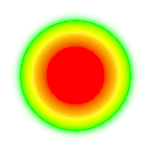
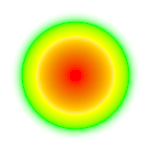
WIP: Adding colormaps

diff --git a/index.js b/index.js
@@ -27,6 +27,38 @@ exports.KERNEL_DEFAULTS = {
   phi: 0,
   radius: 100
 };
+exports.DEFAULT_COLORS = {
+  teelights: {
+    steps: 255,
+    values: ["#FEFFFE", "#00FF00", "#FFFF00", "#FF0000"],
+    weights: [2, 3, 3, 2]
+  },
+  jet: {
+    steps: 255,
+    values: ["#000080", "#0000FF", "#00FFFF", "#00FF00", "#FFFF00", "#FF0000", "800000"],
+    weights: [1, 2, 2, 2, 2, 2, 1]
+  },
+  parula: {
+    steps: 100,
+    values: ["#FEFFFE", "#00FF00", "#FFFF00", "#FF0000"],
+    weights: [2, 3, 3, 2]
+  },
+  gray: {
+    steps: 100,
+    values: ["#FEFFFE", "#00FF00", "#FFFF00", "#FF0000"],
+    weights: [2, 3, 3, 2]
+  },
+  magma: {
+    steps: 100,
+    values: ["#FEFFFE", "#00FF00", "#FFFF00", "#FF0000"],
+    weights: [2, 3, 3, 2]
+  },
+  viridis: {
+    steps: 100,
+    values: ["#FEFFFE", "#00FF00", "#FFFF00", "#FF0000"],
+    weights: [2, 3, 3, 2]
+  }
+};
 exports.kernels = {
   gaussian: gaussianKernel,
   exponential: exponentialKernel,
@@ -63,8 +95,8 @@ exports.drawGeoHeatmap = ({
     width,
     height
   );
-  width = cWidth
-  height = cHeight
+  width = cWidth;
+  height = cHeight;
   crop = crop === true ? cropPolygon : null;
   const buf = exports.drawHeatmap({
     points,
@@ -93,12 +125,7 @@ exports.drawHeatmap = ({
   method = null,
   methodArgs = null
 }) => {
-  if (colors == null)
-    colors = {
-      steps: 100,
-      values: ["#FEFFFE", "#00FF00", "#FFFF00", "#FF0000"],
-      weights: [2, 3, 3, 2]
-    };
+  if (colors == null) colors = "teelights";
   if (kernel == null) kernel = "gaussian";
   if (method == null) method = "shepards";
   if (methodArgs == null)
@@ -177,7 +204,7 @@ function convertData(geoCoords, geoPoints, pxPerDeg, width, height) {
     return Object.assign(item, {
       px: (item.lng - origin[0]) * cScale,
       py: cHeight - (item.lat - origin[1]) * cScale - offset,
-      value: item.value,
+      value: item.value
     });
   });
   return {
@@ -271,7 +298,7 @@ function drawHeatData(heatData, canvas, colors) {
   for (let y = 0; y < height; y++) {
     for (let x = 0; x < width; x++) {
       const i = (y * width + x) * 4;
-      let cIndex = Math.round(heatData[y][x] * colors.steps);
+      let cIndex = Math.round(heatData[y][x] * colormap.length);
       cIndex =
         cIndex < 0
           ? 0
@@ -289,18 +316,32 @@ function drawHeatData(heatData, canvas, colors) {
 }
 
 function buildColormap(colors) {
-  let colormap = [];
-  if (!colors.hasOwnProperty("weights")) {
-    colors.weights = new Array(colors.steps).fill(1);
+  let colorsObj;
+  if (typeof colors === "string" || colors instanceof String) {
+    if (Object.keys(exports.DEFAULT_COLORS).includes(colors)) {
+      colorsObj = exports.DEFAULT_COLORS[colors];
+    } else {
+      throw Error(
+        `Colors ${colors} not found. Chose one of ${Object.keys(
+          exports.DEFAULT_COLORS
+        ).join(", ")}`
+      );
+    }
+  } else {
+    colorsObj = JSON.parse(JSON.stringify(colors));
   }
-  const totalSteps = colors.weights.reduce((acc, cur) => acc + cur, 0);
-  const steps = colors.weights.map((val, idx) => {
-    return Math.ceil((val / totalSteps) * colors.steps);
+  let colormap = [];
+  if (!colorsObj.hasOwnProperty("weights")) {
+    colorsObj.weights = new Array(colorsObj.steps).fill(1);
+  }
+  const totalSteps = colorsObj.weights.reduce((acc, cur) => acc + cur, 0);
+  const steps = colorsObj.weights.map((val, idx) => {
+    return Math.ceil((val / totalSteps) * colorsObj.steps);
   });
-  for (let i = 0; i < colors.values.length - 1; i++) {
+  for (let i = 0; i < colorsObj.values.length - 1; i++) {
     const cmap = interpolateColors(
-      colors.values[i],
-      colors.values[i + 1],
+      colorsObj.values[i],
+      colorsObj.values[i + 1],
       Math.round(steps[i])
     );
     colormap = colormap.concat(cmap);

diff --git a/README.md b/README.md
@@ -2,7 +2,7 @@
 
 ## Usage
 
-### `drawHeatmap(points, width, height, [colors, cropPolygon, kernel, method, methodArgs]) => Buffer`
+### `drawHeatmap({points, width, height, [...args]}) ⇒ Buffer`
 
 Returns the `Buffer` of a `png` image of the heatmap. The `points` argument must be an `Array` containing the following properties: The center of the point `px`, `py`, The intensity of the point `value`. The range of values that makes the gradient are from 0 to 1, but it's possible to give values outside this range. Also, additional arguments can be given to overwrite the defaults for the _kernel_ configuration.
 
@@ -38,11 +38,11 @@ const buf = heatmap.drawHeatmap(points, width, height);
 fs.writeFileSync("example1.png", buf);
 ```
 
-#### Results
+##### example1.png
 
 ![example 1](doc/examples/example1.png)
 
-### `drawGeoHeatmap(geoCoords, geoPoints, (pxPerDeg, width, height), [colors, crop, kernel, method, methodArgs]) => {buf (Buffer), origin (Object), end (Object)}`
+### `drawGeoHeatmap({geoCoords, geoPoints, (pxPerDeg || (width | height)), [...args]}) ⇒ {buf (Buffer), origin (Object), end (Object)}`
 
 Returns an object with the `Buffer` (buf) of a `png` image of the heatmap, the northwestmost and southeastmost (origin, end) coordinates `{lat, lng}`. Inputs are `geoCoords` the boundaries of the image, an `Array` of coordinates `{lat, lng}`; and `geoPoints`, an `Array` of `{lat, lng, value}`, configuration is similar to `deawHeatmap`. One of: `pxPerDeg`, `width`, `height` must be provided.
 
@@ -83,34 +83,34 @@ const buf = heatmap.drawGeoHeatmap({ geoCoords, geoPoints, pxPerDeg, method });
 fs.writeFileSync("example2.png", buf);
 ```
 
-#### Results
+#### example2.png
 
 ![example 2](doc/examples/example2.png)
 
 #### Arguments
 
-##### `drawGeoHeatmap`:
+##### `drawHeatmap`:
 
 - `points`: `Array` of points to draw `[{px, py, value}]`.
 - `width`: width of the image.
 - `height`: height of the image.
-- `colors`: An `Object` for colormap configuration.
+- `colors`: Either an `Object` for colormap configuration, or a `String` of a default colormap. Options: `teelights`, `jet`, `parula`, `gray`, `magma`, `viridis`.
 - `cropPolygon`: `Array` of points `[{px, py}]` forming a polygon to crop the output image
-- `kernel`: The RBF kernel for computing the intensity of the heatmap . Options: `bump`, `cosine`, `dampedCosine`, `exponential`, `gaussian`. `linear`, `polynomial`, `step`.
-- `method`: The method for accumulating the intensities. Options: `max`, `nearest`, `shepards`, `sum`
+- `kernel`: The RBF kernel for computing the intensity of the heatmap. Options: `bump`, `cosine`, `dampedCosine`, `exponential`, `gaussian`. `linear`, `polynomial`, `step`.
+- `method`: The method for accumulating the intensities. Options: `max`, `nearest`, `shepards`, `sum`.
 - `methodArgs`: Additional arguments for the `method`.
 
-##### `drawHeatmap`:
+##### `drawGeoHeatmap`:
 
 - `geoCoords`: `Array` of coordinates `[{lat, lng}]` of the boundaries of the heatmap. May also be used with `crop` when passing more than three coordinates to select the polygon inside the coordinates.
 - `geoPoints`: `Array` of points to draw `[{lat, lng, value}]`.
 - `pxPerDeg`: Number of pixels per degree of latitude/longitude. To use this scaling mode neither `width` and `height` can be provided.
 - `width`: Forces the image to have a certain width. Can be used alongside with `height`.
 - `height`: Forces the image to have a certain height. Can be used alongside with `width`.
-- `colors`: An `Object` for colormap configuration.
+- `colors`: Either an `Object` for colormap configuration, or a `String` of a default colormap. Options: `teelights`, `jet`, `parula`, `gray`, `magma`, `viridis`.
 - `crop`: Crops the polygon of the boundaries gven in `geoCoords` if `true`.
 - `kernel`: The RBF kernel for computing the intensity of the heatmap . Options: `bump`, `cosine`, `dampedCosine`, `exponential`, `gaussian`. `linear`, `polynomial`, `step`.
-- `method`: The method for accumulating the intensities. Options: `max`, `nearest`, `shepards`, `sum`
+- `method`: The method for accumulating the intensities. Options: `max`, `nearest`, `shepards`, `sum`.
 - `methodArgs`: Additional arguments for the `method`.
 
 ### Command line
@@ -128,7 +128,13 @@ Options:
   --            Receives input from stdin and outputs to stdout
 
 Example:
-echo '{"points": [{"px": 10, "py": 10, "value": 1, "sigma": 30}, {"px": 120, "py": 30, "value": 0.6, "sigma": 50}, {"px": 70, "py": 130, "value": 0.2, "sigma": 70}], "width": 150, "height": 150, "method": "nearest"}' | bin/heatmap -- > example3.png
+echo '{"points": [{"px": 10, "py": 10, "value": 1, "sigma": 30},
+  {"px": 120, "py": 30, "value": 0.6, "sigma": 50},
+  {"px": 70, "py": 130, "value": 0.2, "sigma": 70}],
+  "width": 150,
+  "height": 150,
+  "method": "nearest"}' | bin/heatmap -- > example3.png
+
    See ... for configuration details.
 ```
 
@@ -158,42 +164,153 @@ Include the script from [jsDelivr](https://jsdelivr.com):
 
 There are 8 kernels used as [Radial Basis Functions](https://en.wikipedia.org/wiki/Radial_basis_function) for determining the intensity of each pixel in the heatmap:
 
-| []()                                      |                                         |                                               |                                              |
-| ----------------------------------------- | --------------------------------------- | --------------------------------------------- | -------------------------------------------- |
-| **bump**                                  | **cosine**                              | **dampedCosine**                              | **exponential**                              |
-| ![bump kernel](doc/examples/bump.png)     | ![bump kernel](doc/examples/cosine.png) | ![bump kernel](doc/examples/dampedCosine.png) | ![bump kernel](doc/examples/exponential.png) |
-| **gaussian**                              | **linear**                              | **polynomial**                                | **step**                                       |
-| ![bump kernel](doc/examples/gaussian.png) | ![bump kernel](doc/examples/linear.png) | ![bump kernel](doc/examples/polynomial.png)   | ![bump kernel](doc/examples/step.png)        |
+| []()                                          |                                           |                                                       |                                                     |
+| --------------------------------------------- | ----------------------------------------- | ----------------------------------------------------- | --------------------------------------------------- |
+| **bump**                                      | **cosine**                                | **dampedCosine**                                      | **exponential**                                     |
+| ![bump kernel](doc/examples/bump.png)         | ![cosine kernel](doc/examples/cosine.png) | ![dampedCosine kernel](doc/examples/dampedCosine.png) | ![exponential kernel](doc/examples/exponential.png) |
+| **gaussian**                                  | **linear**                                | **polynomial** degree 2                               | **step**                                            |
+| ![gaussian kernel](doc/examples/gaussian.png) | ![linear kernel](doc/examples/linear.png) | ![polynomial kernel](doc/examples/polynomial.png)     | ![step kernel](doc/examples/step.png)               |
 
 ### bump
 
+##### arguments:
+
+- `radius`: Radius of the bump
+
 ### cosine
+
+##### arguments:
+
+- `omega`: Angular frequency
+- `phi`: Phase
 
 ### dampedCosine
 
+##### arguments:
+
+- `omega`: Angular frequency
+- `phi`: Phase
+- `epsilon`: Decay
+
 ### exponential
+
+##### arguments:
+
+- `epsilon`: Decay
 
 ### gaussian
 
+##### arguments:
+
+- `sigma`: Standard deviation
+
 ### linear
+
+##### arguments:
+
+- `epsilon`: Decay
 
 ### polynomial
 
+##### arguments:
+
+- `epsilon`: Decay
+- `degree`: Degree of the polynomial
+
 ### step
+
+##### arguments:
+
+- `radius`: Radius of the step
 
 ## Methods
 
+There are 4 methods for accumulating the values of the points
+
+| []()                                 |                                          |                                           |                                      |
+| ------------------------------------ | ---------------------------------------- | ----------------------------------------- | ------------------------------------ |
+| **max**                              | **nearest**                              | **shepards**                              | **sum**                              |
+| ![bump kernel](doc/examples/max.png) | ![bump kernel](doc/examples/nearest.png) | ![bump kernel](doc/examples/shepards.png) | ![bump kernel](doc/examples/sum.png) |
+
 ### max
+
+Gets the maximum value of any point
 
 ### nearest
 
+Gets the value for the nearest point
+
 ### shepards
+
+Computes a weighted sum of the points using a kernel.
+
+##### arguments:
+
+- `kernel`: Name of the kernel
+- `kernelArgs`: Extra arguments for the kernel
 
 ### sum
 
-### Custom method
+Sums the values of all points.
 
 ## Colors
+
+The first option for configuring the colormap is by chosing one of the default colors:
+
+| []() | | | |
+| --------------------------------------------- | ----------------------------------------- | ----------------------------------------------------- | --------------------------------------------------- |
+| **teelights** default | **jet** | **parula** |
+| ![teelights](doc/examples/teelights.png) | ![jet](doc/examples/jet.png) | ![parula](doc/examples/parula.png) |
+| **gray** | **magma** | **viridis** |
+| ![gray](doc/examples/gray.png) | ![magma](doc/examples/magma.png) | ![viridis](doc/examples/viridis.png) |
+
+The second option for configuring the colormap is an `Object` containing the following _properties_:
+
+- `steps`: Number of colors for interpolation.
+- `colors`: An `Array` of the colors in the colormap in hex.
+- `weights`: An `Array` of weights for each color (optional).
+
+#### Example
+
+```javascript
+const fs = require("fs");
+const heatmap = require("@luxedo/heatmap");
+
+const points = [
+  {
+    px: 10,
+    py: 10,
+    value: 1,
+    sigma: 30
+  },
+  {
+    px: 120,
+    py: 30,
+    value: 0.6,
+    sigma: 50
+  },
+  {
+    px: 70,
+    py: 130,
+    value: 0.2,
+    sigma: 70
+  }
+];
+const width = 150;
+const height = 150;
+
+let colors = {
+  steps: 30,
+  values: ["#111122", "#44AA11", "#DDDDFF"],
+  weights: [1, 2, 3]
+};
+buf = heatmap.drawHeatmap({ points, width, height, colors });
+fs.writeFileSync("example4.png", buf);
+```
+
+#### example4.png
+
+![example4](doc/examples/example4.png)
 
 ## Examples
 
